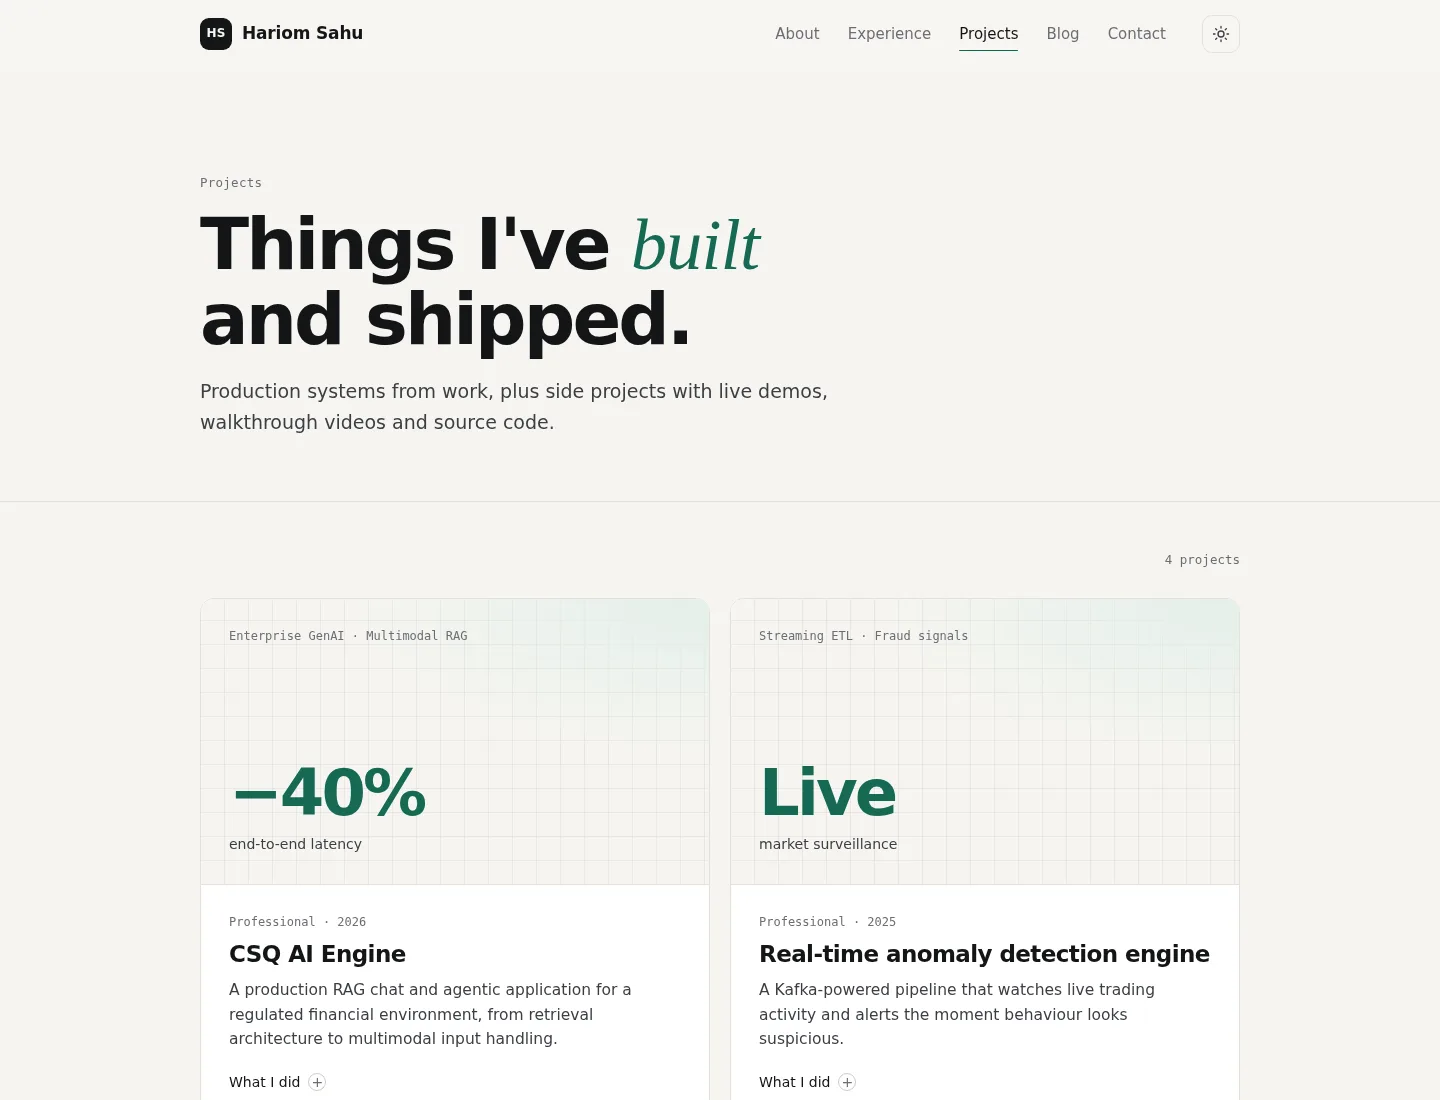
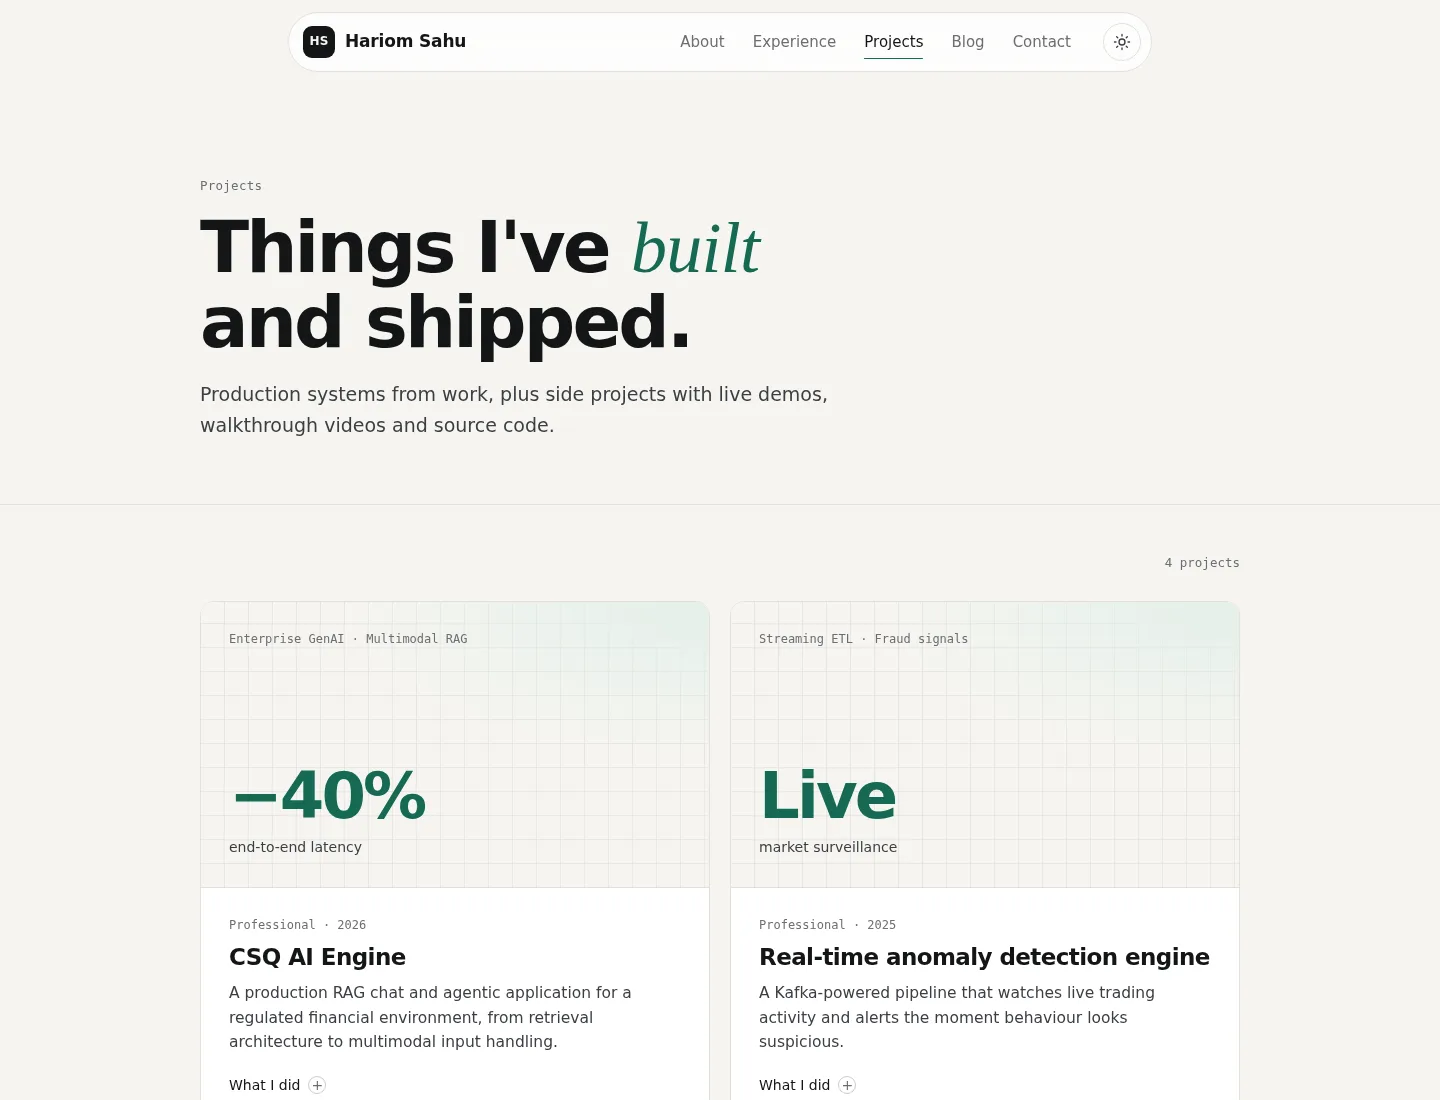
feat: centred floating nav, greeting in hero, achievements in experience

diff --git a/assets/css/styles.css b/assets/css/styles.css
@@ -149,24 +149,42 @@ svg { width: 1em; height: 1em; fill: none; stroke: currentColor; stroke-width: 1
 }
 .section-head-wide { margin-bottom: 48px; }
 
-/* ---------- Header ---------- */
+/* ---------- Header: floating, centred bar (60% of the page on desktop) ---------- */
 .site-header {
   position: sticky;
-  top: 0;
+  top: 12px;
   z-index: 50;
-  background: color-mix(in srgb, var(--bg) 82%, transparent);
-  backdrop-filter: saturate(160%) blur(14px);
-  -webkit-backdrop-filter: saturate(160%) blur(14px);
-  border-bottom: 1px solid transparent;
-  transition: border-color 0.3s var(--ease), background-color 0.3s var(--ease);
+  padding: 0 16px;
+  margin-top: 12px;
+  pointer-events: none;
 }
-.site-header.is-scrolled { border-bottom-color: var(--line); }
 
 .header-inner {
-  height: 68px;
+  position: relative;
+  width: 60vw;
+  min-width: 740px;
+  max-width: 100%;
+  height: 60px;
+  margin: 0 auto;
+  padding: 0 10px 0 14px;
   display: flex;
   align-items: center;
-  gap: 24px;
+  gap: 20px;
+  background: color-mix(in srgb, var(--surface) 78%, transparent);
+  backdrop-filter: saturate(160%) blur(16px);
+  -webkit-backdrop-filter: saturate(160%) blur(16px);
+  border: 1px solid var(--line);
+  border-radius: 999px;
+  pointer-events: auto;
+  transition: box-shadow 0.3s var(--ease), background-color 0.3s var(--ease), border-color 0.3s var(--ease);
+}
+.site-header.is-scrolled .header-inner {
+  background: color-mix(in srgb, var(--surface) 90%, transparent);
+  border-color: var(--line-strong);
+  box-shadow: var(--shadow);
+}
+@media (max-width: 900px) {
+  .header-inner { width: 100%; min-width: 0; }
 }
 
 .brand { display: inline-flex; align-items: center; gap: 10px; font-weight: 600; letter-spacing: -0.01em; }
@@ -191,6 +209,7 @@ svg { width: 1em; height: 1em; fill: none; stroke: currentColor; stroke-width: 1
 .nav a {
   position: relative;
   padding: 8px 12px;
+  white-space: nowrap;
   font-size: 15px;
   color: var(--muted);
   border-radius: 8px;
@@ -221,7 +240,7 @@ svg { width: 1em; height: 1em; fill: none; stroke: currentColor; stroke-width: 1
   color: var(--ink-2);
   background: transparent;
   border: 1px solid var(--line);
-  border-radius: 10px;
+  border-radius: 999px;
   cursor: pointer;
   transition: border-color 0.2s var(--ease), color 0.2s var(--ease), background-color 0.2s var(--ease);
 }
@@ -240,16 +259,19 @@ svg { width: 1em; height: 1em; fill: none; stroke: currentColor; stroke-width: 1
 @media (max-width: 760px) {
   .menu-btn { display: inline-grid; }
   .header-actions { margin-left: auto; }
+  .header-inner { height: 56px; }
   .nav {
     position: absolute;
-    top: 68px;
+    top: calc(100% + 8px);
     left: 0;
     right: 0;
     flex-direction: column;
     gap: 0;
-    padding: 8px var(--gutter) 16px;
-    background: var(--bg);
-    border-bottom: 1px solid var(--line);
+    padding: 6px 18px;
+    background: var(--surface);
+    border: 1px solid var(--line);
+    border-radius: 18px;
+    box-shadow: var(--shadow);
     opacity: 0;
     visibility: hidden;
     transform: translateY(-6px);
@@ -296,8 +318,16 @@ svg { width: 1em; height: 1em; fill: none; stroke: currentColor; stroke-width: 1
   80%, 100% { transform: scale(2.6); opacity: 0; }
 }
 
+.hero-hello {
+  margin-top: 32px;
+  font-size: clamp(20px, 2.4vw, 28px);
+  letter-spacing: -0.02em;
+  color: var(--ink-2);
+}
+.hero-hello strong { font-weight: 600; color: var(--ink); }
+
 .hero-title {
-  margin-top: 28px;
+  margin-top: 12px;
   max-width: 17ch;
   font-size: clamp(40px, 7.2vw, 84px);
   font-weight: 600;
@@ -385,6 +415,34 @@ svg { width: 1em; height: 1em; fill: none; stroke: currentColor; stroke-width: 1
 }
 @media (max-width: 420px) {
   .metric { padding: 18px 16px 20px; }
+}
+
+/* Metrics shown inside the experience card */
+.role-subhead {
+  margin: 28px 0 0;
+  font-family: var(--font-mono);
+  font-size: 12.5px;
+  font-weight: 500;
+  letter-spacing: 0.02em;
+  color: var(--muted);
+}
+.metrics-inline {
+  margin: 14px 0 0;
+  grid-template-columns: repeat(2, minmax(0, 1fr));
+  background: var(--bg);
+  box-shadow: none;
+}
+.metrics-inline .metric { padding: 20px 22px 22px; }
+.metrics-inline .metric:nth-child(3) { border-left: 0; }
+.metrics-inline .metric:nth-child(n + 3) { border-top: 1px solid var(--line); }
+.metrics-inline .metric dd { font-size: clamp(30px, 3vw, 38px); color: var(--accent); }
+.metrics-inline .metric dd small { color: var(--muted); }
+.role-subhead + .bullets { margin-top: 14px; }
+@media (max-width: 520px) {
+  .metrics-inline { grid-template-columns: minmax(0, 1fr); }
+  .metrics-inline .metric { padding: 18px 20px; }
+  .metrics-inline .metric { border-left: 0 !important; }
+  .metrics-inline .metric + .metric { border-top: 1px solid var(--line); }
 }
 
 /* ---------- About ---------- */

diff --git a/index.html b/index.html
@@ -21,7 +21,7 @@
   <a class="skip-link" href="#main">Skip to content</a>
 
   <header class="site-header" id="top">
-    <div class="container header-inner">
+    <div class="header-inner">
       <a class="brand" href="./" aria-label="Hariom Sahu, home">
         <span class="brand-mark" aria-hidden="true">HS</span>
         <span class="brand-name">Hariom Sahu</span>
@@ -50,10 +50,11 @@
     <section class="hero">
       <div class="container">
         <p class="status reveal"><span class="dot" aria-hidden="true"></span>Open to new opportunities · Mumbai, India</p>
+        <p class="hero-hello reveal">Hi! I am <strong>Hariom Sahu</strong>.</p>
         <h1 class="hero-title reveal">I build backend systems that <em>stay fast</em> when the load doesn't stay small.</h1>
         <p class="hero-lede reveal">
           Software Engineer at Multi Commodity Exchange. I design distributed data pipelines, streaming systems,
-          and production GenAI applications for a platform serving 100M+ users.
+          and production GenAI applications.
         </p>
         <div class="hero-cta reveal">
           <a class="btn btn-primary" href="projects/">See my projects
@@ -62,24 +63,6 @@
           <a class="btn btn-ghost" href="mailto:hariomsahu.dev@gmail.com">hariomsahu.dev@gmail.com</a>
         </div>
 
-        <dl class="metrics reveal">
-          <div class="metric">
-            <dt>File validation time</dt>
-            <dd><span class="count" data-to="92.5" data-decimals="1">92.5</span>%<small>faster · 40 min → 3 min</small></dd>
-          </div>
-          <div class="metric">
-            <dt>API search latency</dt>
-            <dd><span class="count" data-to="50">50</span>%<small>lower via indexing &amp; query redesign</small></dd>
-          </div>
-          <div class="metric">
-            <dt>RAG pipeline latency</dt>
-            <dd><span class="count" data-to="40">40</span>%<small>lower with 5-way parallel retrieval</small></dd>
-          </div>
-          <div class="metric">
-            <dt>Users on shipped APIs</dt>
-            <dd><span class="count" data-to="100">100</span>M+<small>on India's largest commodity exchange</small></dd>
-          </div>
-        </dl>
       </div>
     </section>
 
@@ -138,6 +121,28 @@
               <p class="when">Jun 2025 — Present</p>
             </header>
             <p class="role-summary">Production REST APIs and distributed data pipelines for client lifecycle management on India's largest commodity exchange.</p>
+
+            <h4 class="role-subhead">Key achievements</h4>
+            <dl class="metrics metrics-inline">
+              <div class="metric">
+                <dt>File validation time</dt>
+                <dd><span class="count" data-to="92.5" data-decimals="1">92.5</span>%<small>faster · 40 min → 3 min</small></dd>
+              </div>
+              <div class="metric">
+                <dt>API search latency</dt>
+                <dd><span class="count" data-to="50">50</span>%<small>lower via indexing &amp; query redesign</small></dd>
+              </div>
+              <div class="metric">
+                <dt>RAG pipeline latency</dt>
+                <dd><span class="count" data-to="40">40</span>%<small>lower with 5-way parallel retrieval</small></dd>
+              </div>
+              <div class="metric">
+                <dt>Users on shipped APIs</dt>
+                <dd><span class="count" data-to="100">100</span>M+<small>on India's largest commodity exchange</small></dd>
+              </div>
+            </dl>
+
+            <h4 class="role-subhead">What I worked on</h4>
             <ul class="bullets">
               <li>Re-architected a legacy monolith into a distributed Python / Celery / Redis pipeline, cutting file validation from <strong>40 to 3 minutes</strong>.</li>
               <li>Built a real-time Kafka ETL pipeline and anomaly-detection engine that raises multi-channel alerts on suspicious trading behaviour.</li>

diff --git a/blog/index.html b/blog/index.html
@@ -21,7 +21,7 @@
   <a class="skip-link" href="#main">Skip to content</a>
 
   <header class="site-header" id="top">
-    <div class="container header-inner">
+    <div class="header-inner">
       <a class="brand" href="../" aria-label="Hariom Sahu, home">
         <span class="brand-mark" aria-hidden="true">HS</span>
         <span class="brand-name">Hariom Sahu</span>

diff --git a/blog/post.html b/blog/post.html
@@ -21,7 +21,7 @@
   <a class="skip-link" href="#main">Skip to content</a>
 
   <header class="site-header" id="top">
-    <div class="container header-inner">
+    <div class="header-inner">
       <a class="brand" href="../" aria-label="Hariom Sahu, home">
         <span class="brand-mark" aria-hidden="true">HS</span>
         <span class="brand-name">Hariom Sahu</span>

diff --git a/projects/index.html b/projects/index.html
@@ -21,7 +21,7 @@
   <a class="skip-link" href="#main">Skip to content</a>
 
   <header class="site-header" id="top">
-    <div class="container header-inner">
+    <div class="header-inner">
       <a class="brand" href="../" aria-label="Hariom Sahu, home">
         <span class="brand-mark" aria-hidden="true">HS</span>
         <span class="brand-name">Hariom Sahu</span>

diff --git a/README.md b/README.md
@@ -58,7 +58,7 @@ The site has three pages: **Home**, **Projects** and **Blog**. The header on eve
 
 [Open ↗](https://harry9321.github.io/New_Portfolio/)
 
-The first screen says what I do in one line, shows my availability, and gives two actions: **See my projects** and email me. Below that, four headline metrics count up as you scroll into view.
+The first screen opens with **"Hi! I am Hariom Sahu."**, says what I do in one line, shows my availability, and gives two actions: **See my projects** and email me. The menu bar floats centred at the top of every page.
 
 ### 2. About: how I work
 
@@ -81,6 +81,10 @@ It closes with my **toolbox** of languages, databases and infrastructure.
 ![Experience section](docs/screenshots/experience.webp)
 
 **Software Engineer, Multi Commodity Exchange** (Jun 2025 – Present)
+
+Key achievements (shown as tiles that count up as you scroll): **92.5%** faster file validation · **50%** lower API search latency · **40%** lower RAG pipeline latency · **100M+** users on shipped APIs.
+
+What I worked on:
 - Re-architected a legacy monolith into a distributed Python / Celery / Redis pipeline: file validation went from **40 to 3 minutes**.
 - Built a real-time **Kafka** ETL pipeline and anomaly-detection engine for suspicious trading behaviour.
 - Halved API search latency through SQL optimisation, schema redesign and indexing.
